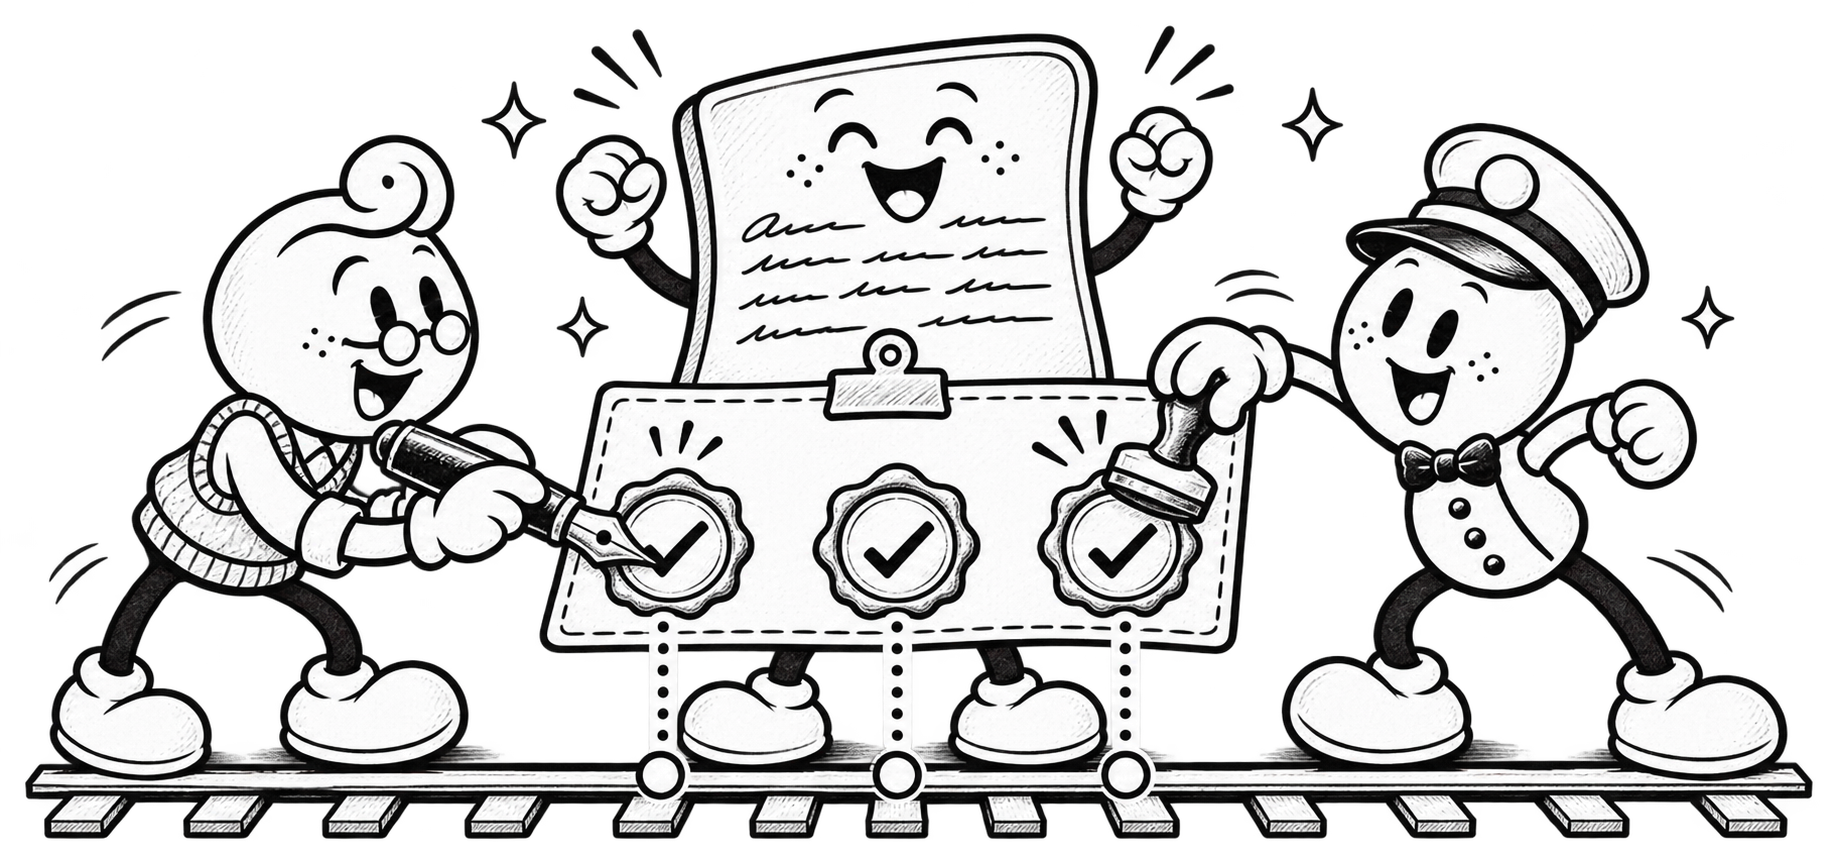
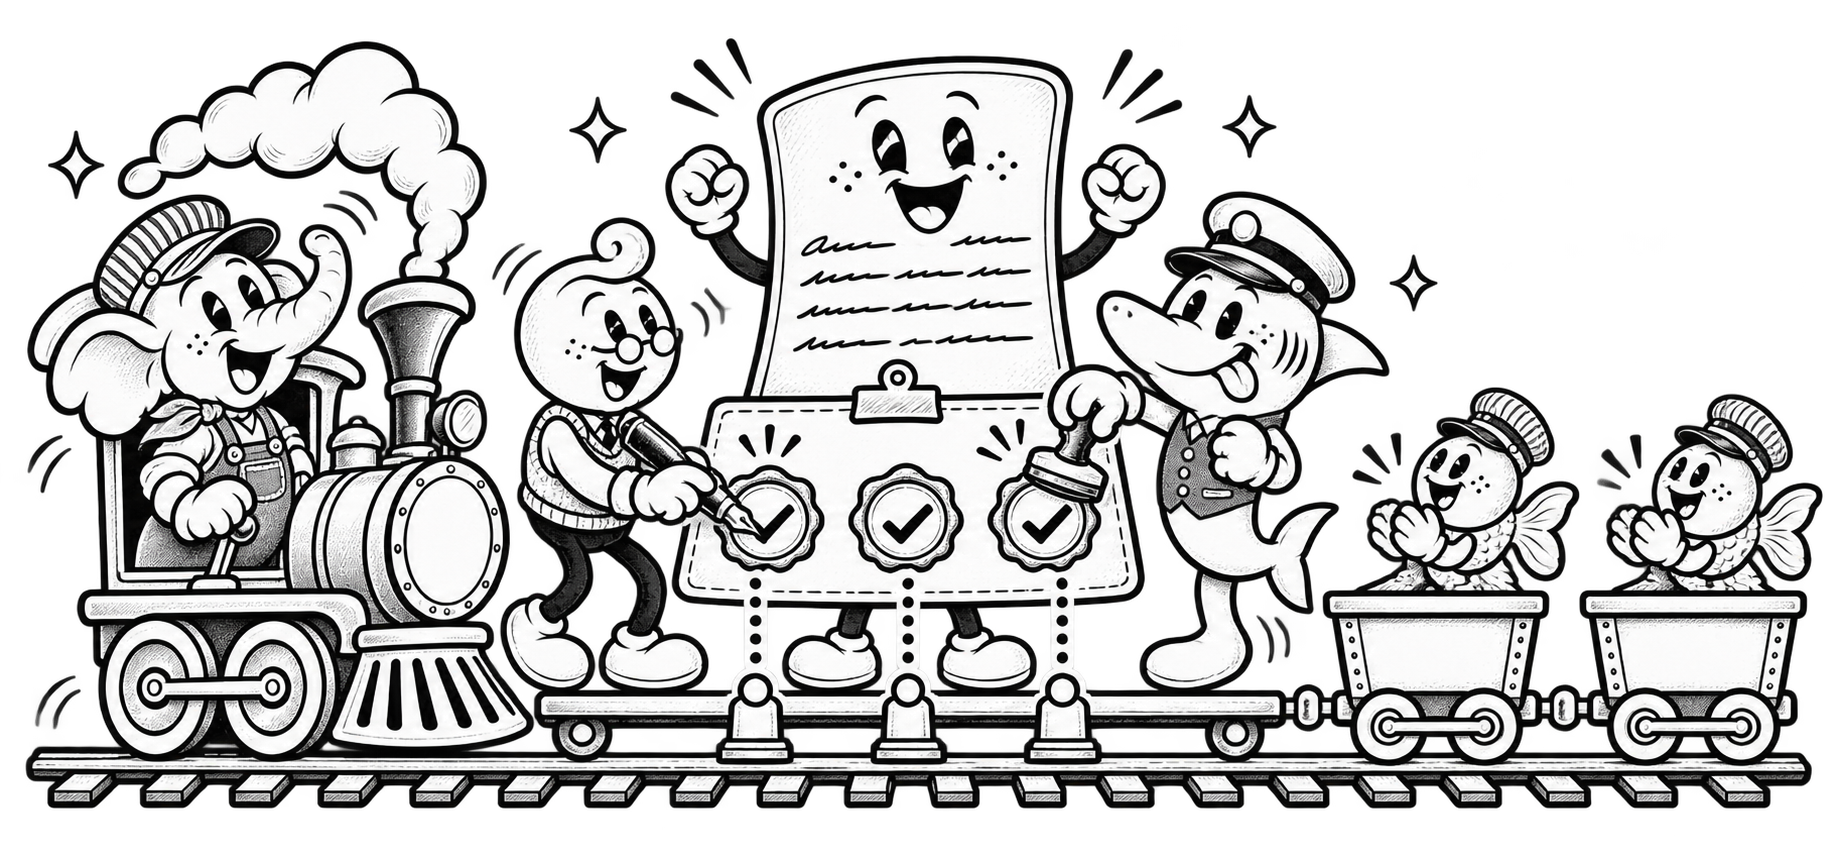
docs: new cast — the elephant conducts, the goldfish execute, the shark validates; five new illustrations

diff --git a/site/index.html b/site/index.html
@@ -225,15 +225,15 @@ footer .wrap { display: flex; gap: 1.6rem; flex-wrap: wrap; }
 <main>
   <div class="wrap hero">
     <h1>Cada tarefa chega ao destino com seus carimbos.</h1>
-    <p class="lede">Um harness por projeto para Claude Code e Codex. Você define o destino e os portões; o plugin organiza o trabalho, mantém os agentes nos trilhos e confere a entrega.</p>
+    <p class="lede">Um harness por projeto para Claude Code e Codex. Você define o destino e os portões; o elefante conduz, os peixinhos executam cada um no seu vagão, e o tubarão confere a entrega.</p>
 
     <div class="yard">
     <img class="loco" src="mascote.png" width="1254" height="1254" alt="" aria-hidden="true">
     <ol class="line" aria-label="O caminho de uma entrega">
       <li class="gate"><b>Entrada</b><span>requisitos e plano</span></li>
-      <li><b>Vagões</b><span>tarefas em paralelo</span></li>
+      <li><b>Vagões</b><span>um peixinho por tarefa</span></li>
       <li><b>Trilhos</b><span>guardrails e memória</span></li>
-      <li class="gate"><b>Conferência</b><span>revisor independente</span></li>
+      <li class="gate"><b>Conferência</b><span>o tubarão valida</span></li>
       <li class="gate"><b>Destino</b><span>passaporte completo</span></li>
     </ol>
     </div>
@@ -273,8 +273,8 @@ footer .wrap { display: flex; gap: 1.6rem; flex-wrap: wrap; }
       <h2>Entrada, percurso e conferência</h2>
       <p class="intro">O portão de entrada confirma os requisitos. Cada tarefa percorre seu trilho, com validações próprias no meio quando necessárias. No destino, fiscais independentes conferem os carimbos exigidos para aquela entrega.</p>
       <figure class="art" tabindex="0">
-        <img src="img/passaporte-cartoon.png" width="1838" height="856" loading="lazy" alt="O dono, de óculos, aperta a mão do documento depois da entrevista; um vagão leva as tarefas; o fiscal examina o documento com uma lupa, com o selo ainda vazio; o documento sai com os selos e uma bandeira. Uma seta devolve a tarefa do fiscal para o vagão.">
-        <figcaption>O fiscal confere a evidência. Se faltar um carimbo, devolve a tarefa ao executor.</figcaption>
+        <img src="img/passaporte-cartoon.png" width="1839" height="855" loading="lazy" alt="Na partida, o dono aperta a mão do documento; o elefante maquinista sai com dois peixinhos nos vagões; na chegada, o tubarão fiscal examina o documento com uma lupa; o documento sai com os três selos e uma bandeira. Uma seta com a palavra ajuste volta do tubarão para os vagões.">
+        <figcaption>O tubarão confere na chegada. Se algo não bate com o critério, volta como ajuste para os peixinhos.</figcaption>
       </figure>
       <ol class="roles" aria-label="Quem conduz cada etapa no exemplo">
         <li><img src="img/claude-mascot.svg" alt="" width="32" height="32"><span><strong>Claude</strong>entrevista</span></li>
@@ -291,7 +291,7 @@ footer .wrap { display: flex; gap: 1.6rem; flex-wrap: wrap; }
       <h2>O carimbo é um certificado no documento</h2>
       <p class="intro">Como a assinatura de um especialista num documento revisado: o certificado vai no apêndice da spec da demanda e é assinado pelo commit de quem validou. O dono assina o critério; cada revisor assina o próprio veredito; quem executou não assina nada.</p>
       <figure class="art" tabindex="0">
-        <img src="img/certificado-cartoon.png" width="1838" height="856" loading="lazy" alt="O documento da demanda, sorridente, com três selos no apêndice; o dono, de óculos, assina o primeiro com uma caneta-tinteiro e o fiscal de quepe carimba o último. Cada selo desce por uma linha pontilhada até um marco no trilho.">
+        <img src="img/certificado-cartoon.png" width="1838" height="856" loading="lazy" alt="O documento da demanda, sorridente, com três selos no apêndice; o dono, de óculos, assina o primeiro com uma caneta-tinteiro e o tubarão fiscal carimba o último, de língua de fora. Cada selo desce por uma linha pontilhada até um marco no trilho; o elefante e dois peixinhos aplaudem.">
         <figcaption>Mudou o código ou o critério, o certificado cai. Está no Git: outra máquina, outro agente ou o CI conferem a mesma prova.</figcaption>
       </figure>
     </div>
@@ -299,9 +299,9 @@ footer .wrap { display: flex; gap: 1.6rem; flex-wrap: wrap; }
 
   <section id="maestro" class="wash">
     <div class="wrap">
-      <h2>O elefante, o tubarão e os peixes</h2>
-      <p class="intro">O maestro é o elefante: conversa com você, fecha a definição e guarda o que foi entregue. O orquestrador é o tubarão: coordena a demanda e confere o que volta. Os executores e revisores são os peixes: cada um num terminal próprio, com o contexto só dele, desmontado ao relatar.</p>
-      <figure class="art"><img src="img/maestro-tubarao-peixes.png" width="1536" height="1024" loading="lazy" alt="O elefante maquinista conduz a locomotiva; o tubarão fiscal confere a lista na plataforma; os peixes correm cada um no seu trenzinho."><figcaption>O nome de cada terminal diz o papel, o ticket e o modelo: <code>tmux ls</code> vira o painel da demanda.</figcaption></figure>
+      <h2>O elefante conduz, os peixinhos executam, o tubarão valida</h2>
+      <p class="intro">O elefante é o modelo maior: pensa, conversa com você, fecha a definição, conduz o trem e guarda o que foi entregue. Os peixinhos são os modelos menores: cada um no seu vagão, executa o seu ticket e esquece. O tubarão valida na chegada: confere cada vagão contra o critério aceito e carimba.</p>
+      <figure class="art"><img src="img/elefante-peixes-tubarao.png" width="1840" height="855" loading="lazy" alt="O elefante maquinista conduz a locomotiva pensando no trilho; atrás dele, quatro vagões, cada um com um peixinho ocupado com a sua tarefa; na plataforma de chegada, o tubarão fiscal espera com o carimbo erguido."><figcaption>Cada peixe abre num terminal próprio, e o nome do terminal diz o papel, o ticket e o modelo: <code>tmux ls</code> vira o painel da demanda.</figcaption></figure>
       <h3 class="sub">Modelos por demanda</h3>
       <p>Quando a definição fecha, você escolhe o modelo do orquestrador, o dos executores e o dos revisores para aquela demanda. Vários modelos de executor se revezam. O nome do modelo é um apelido para a versão mais nova.</p>
       <div class="cmd" style="margin-top:2rem"><code id="c9">tr-harness orchestrate --agent claude --model opus --executors claude:haiku,codex:terra --reviewers claude:sonnet --terminals</code><button type="button" data-copy="c9">Copiar</button></div>
@@ -314,9 +314,9 @@ footer .wrap { display: flex; gap: 1.6rem; flex-wrap: wrap; }
 
   <section id="trilhos">
     <div class="wrap">
-      <h2>Uma locomotiva para cada trabalho independente</h2>
-      <p class="intro">Claude e Codex podem conduzir tarefas em trilhos paralelos. Os vagões são tarefas e habilidades: uma tela leva acessibilidade; uma API leva testes de contrato. Cada passaporte exige apenas os carimbos que fazem sentido para aquela carga.</p>
-      <figure class="art"><img src="img/locomotivas-cartoon.png" width="1835" height="857" loading="lazy" alt="Duas locomotivas puxam vagões com tarefas em trilhos paralelos rumo ao fiscal, que segura o passaporte carimbado."><figcaption><img src="img/claude-mascot.svg" alt="" width="28" height="28" style="display:inline;vertical-align:middle;width:1.75rem;margin-right:.3rem"> Claude pode puxar a tela. <img src="img/codex-mascot.svg" alt="" width="28" height="28" style="display:inline;vertical-align:middle;width:1.75rem;margin:0 .3rem 0 .6rem"> Codex pode puxar a API. Você escolhe os modelos de cada papel; as skills do tr conduzem o fluxo.</figcaption></figure>
+      <h2>Cada peixinho no seu trilho</h2>
+      <p class="intro">Tarefas independentes correm em trilhos paralelos, cada peixinho no seu worktree e no seu terminal. O elefante troca os trilhos e vê os três de uma vez; todos chegam ao mesmo portão, onde o tubarão confere. Cada passaporte exige apenas os carimbos que fazem sentido para aquela carga.</p>
+      <figure class="art"><img src="img/locomotivas-cartoon.png" width="1837" height="856" loading="lazy" alt="Três peixinhos correm em trilhos paralelos, cada um no seu vagão: tela, API e testes. Na torre de sinais, o elefante maquinista aciona as alavancas; os trilhos se juntam no portão, onde o tubarão fiscal segura o passaporte e a placa de pare."><figcaption><img src="img/claude-mascot.svg" alt="" width="28" height="28" style="display:inline;vertical-align:middle;width:1.75rem;margin-right:.3rem"> Um peixinho Claude pode puxar a tela. <img src="img/codex-mascot.svg" alt="" width="28" height="28" style="display:inline;vertical-align:middle;width:1.75rem;margin:0 .3rem 0 .6rem"> Um peixinho Codex pode puxar a API. Você escolhe os modelos de cada demanda; as skills do tr conduzem o fluxo.</figcaption></figure>
       <h3 class="sub">Conferência antes de declarar a entrega</h3>
       <p>O executor produz o trabalho; outro agente examina a evidência. Se faltar um carimbo ou a revisão reprovar, a tarefa volta para correção e passa de novo pelo portão. A aprovação é automática por padrão. O projeto pode exigir uma assinatura humana para um portão final.</p>
       <div class="cmd" style="margin-top:2rem"><code id="c2">fullchico-harness models configure</code><button type="button" data-copy="c2">Copiar</button></div>
@@ -326,10 +326,10 @@ footer .wrap { display: flex; gap: 1.6rem; flex-wrap: wrap; }
 
   <section id="memoria" class="wash">
     <div class="wrap">
-      <h2>A memória aprende sozinha</h2>
-      <p class="intro">Ninguém precisa lembrar de um comando. O configure cria o mapa do código, cada demanda o confere antes da entrevista, e cada entrega termina num sonho: um extrator isolado lê as sessões inteiras, com o que cada subagente escreveu, e só fica a nota que o código confirma.</p>
+      <h2>O elefante nunca esquece</h2>
+      <p class="intro">Ninguém precisa lembrar de um comando. O configure cria o mapa do código, cada demanda o confere antes da entrevista, e cada entrega termina num sonho: um extrator isolado lê as sessões inteiras, com o que cada peixe escreveu, e só fica a nota que o código confirma.</p>
       <figure class="art" tabindex="0">
-        <img src="img/memoria-cartoon.png" width="1836" height="856" loading="lazy" alt="A locomotiva corre num trilho circular com três placas: um mapa (configurar), uma prancheta com lupa (planejar) e uma lua dormindo (o sonho depois da entrega). No centro, um caderno sorridente com um lápis e um visto.">
+        <img src="img/memoria-cartoon.png" width="1837" height="856" loading="lazy" alt="O elefante maquinista corre num trilho circular com três placas: um mapa (configurar), uma prancheta com lupa (planejar) e uma lua dormindo (sonhar, depois da entrega). No centro, um caderno sorridente com um lápis e um visto; nos vagões, dois peixinhos já esqueceram.">
         <figcaption>A memória fica na máquina, fora dos arquivos versionados. Não bloqueia a entrega: é o loop que a fecha.</figcaption>
       </figure>
     </div>
@@ -342,7 +342,7 @@ footer .wrap { display: flex; gap: 1.6rem; flex-wrap: wrap; }
       <dl class="facts">
         <div><dt><code>tr</code></dt><dd><strong>Disponível.</strong> Registro, portões de entrada, meio e fim, validadores em subagente limpo (<code>/tr:quality-check</code>, <code>/tr:bugs-hunt</code>, <code>/tr:scope-check</code>), passaporte por demanda, modelos por papel e <code>/tr:process-plan</code>.</dd></div>
         <div><dt><code>memory</code></dt><dd><strong>Disponível.</strong> Mapa do código, notas ancoradas e busca por grafo local, compartilhados entre Claude e Codex sem versionar o índice gerado.</dd></div>
-        <div><dt>Orquestração</dt><dd><strong>Disponível no <code>tr</code>.</strong> Um subagente coordena tickets liberados pelo grafo, executores e fiscais independentes, em segundo plano. Modelos Claude e Codex podem ser escolhidos por papel e por portão; execuções longas rodam com <code>models run --detach</code> e são consultadas com <code>models wait</code>.</dd></div>
+        <div><dt>Orquestração</dt><dd><strong>Disponível no <code>tr</code>.</strong> O orquestrador, num terminal próprio, coordena tickets liberados pelo grafo, executores e fiscais independentes. Modelos Claude e Codex podem ser escolhidos por papel e por portão; execuções longas rodam com <code>models run --detach</code> e são consultadas com <code>models wait</code>.</dd></div>
         <div><dt>Segurança</dt><dd><strong>Configurável pelo projeto.</strong> Registre um portão final com comando ou fiscal próprio se a entrega exigir essa revisão.</dd></div>
       </dl>
     </div>

diff --git a/README.md b/README.md
@@ -55,15 +55,15 @@ O harness exige veredito, hash do estado examinado e processo bem sucedido antes
 Se o modelo do portão for Codex, o hook impede que um Agent Claude assine no lugar dele.
 As execuções e seus manifestos ficam fora do repositório.
 
-## O maestro, o orquestrador e os peixes
+## O elefante conduz, os peixinhos executam, o tubarão valida
 
-<img src="site/img/maestro-tubarao-peixes.png" alt="" width="640">
+<img src="site/img/elefante-peixes-tubarao.png" alt="" width="720">
 
 | Papel | Bicho | O que faz | Memória |
 |---|---|---|---|
-| **Maestro** | elefante | conversa com o dono, fecha a definição e guarda o que foi entregue; pode olhar e interferir, sempre delegando | guarda tudo |
-| **Orquestrador** | tubarão | coordena a demanda e confere o que volta; reporta ao maestro | nenhuma: é montado para a demanda e desmontado ao fim |
-| **Executores e revisores** | peixes | executam os tickets e validam os portões; reportam ao orquestrador | nenhuma: cada um é desmontado ao relatar |
+| **Maestro e orquestrador** | elefante | o modelo maior: pensa, conversa com o dono, fecha a definição e conduz o trem; o maestro guarda o que foi entregue, e o orquestrador coordena a demanda e reporta a ele | o maestro guarda tudo; o orquestrador é montado para a demanda e desmontado ao fim |
+| **Executores** | peixinhos | os modelos menores: cada um no seu vagão, executa o seu ticket e reporta ao orquestrador | nenhuma: cada um é desmontado ao relatar |
+| **Revisores** | tubarão | valida na chegada: confere cada vagão contra o critério aceito e assina o certificado | nenhuma: desmontado ao dar o veredito |
 
 Cada peixe é uma sessão inteira num **terminal próprio** (tmux), com o contexto só dele: o executor gasta o
 contexto no ticket e some; o orquestrador recebe só o relato de cada um; o maestro recebe só o relato do
